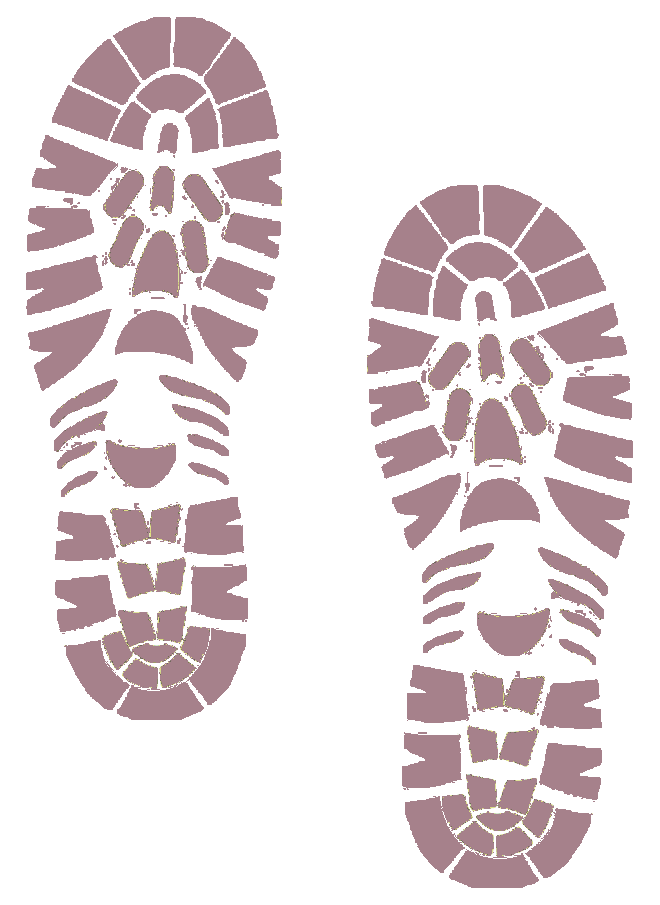
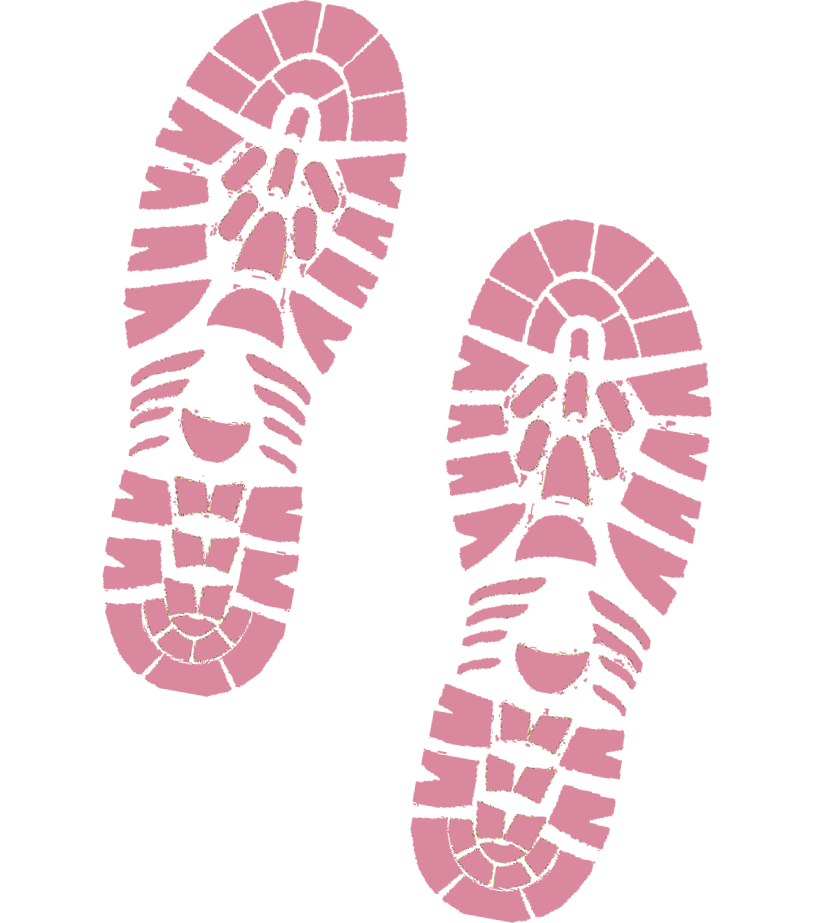
added in the footprints for whatToWear and added max-width to sections

diff --git a/script.js b/script.js
@@ -237,12 +237,11 @@ weatherApp.displayWeather = function(weatherData) {
 /////////// DISPLAY ICON FUNCTION ///////////
 //create a function that holds if/else statements - determines which icon will be displayed based on current weather
 weatherApp.displayIcon = function(icon){
-     // console.log('i works!');
      const iconContainer = document.querySelector('.iconContainer');
      iconContainer.innerHTML = "";
      
      const masterpiece = document.createElement('img');
-     
+     //if/else statements to know which image to append
      if (icon === "cloudy"){
           masterpiece.src = weatherIcons[0]
           iconContainer.appendChild(masterpiece);
@@ -275,25 +274,29 @@ weatherApp.displayIcon = function(icon){
 //////// SELECT CLOTHING LIST FUNCTION ///////////
 //Create a method to store the forEach method inside- for each of the items inside the clothing array, create a new <li> with the clothing item inside
 weatherApp.selectClothingList = function(outfitParameter) {
+     //add styling to whatToWear section and clear previous list items
      const whatToWear = document.querySelector('.whatToWear');
      whatToWear.classList.add('sectionsBackground')
      const ulClothingElement = document.querySelector('.clothingItems');
      ulClothingElement.innerHTML = "";
 
-     const runningOutfits = document.createElement('h3')
+     //create h3 title and img to append to clothingFlexContainer div
+     const clothingFlexContainer = document.querySelector('.clothingFlexContainer');
+     clothingFlexContainer.innerHTML = "";
 
+     const footprints = document.createElement('img');
+     footprints.src="./assets/shoesPink.png";
+     const runningOutfits = document.createElement('h2')
      runningOutfits.textContent = "What to wear";
-     ulClothingElement.append(runningOutfits)
+     clothingFlexContainer.append(footprints);
+     clothingFlexContainer.append(runningOutfits);
 
-     const columnDiv = document.createElement('div');
-     columnDiv.classList.add('column');
-
-
+     ulClothingElement.classList.add('column');
+     //.forEach loop
      outfitParameter.forEach(function(item) {
           const listedItem = document.createElement('li');
           listedItem.textContent = item;
-          columnDiv.append(listedItem);
-          ulClothingElement.append(columnDiv);
+          ulClothingElement.append(listedItem);
      }) 
 } //end of selectClothingList function
 

diff --git a/styles/sass/sass/partials/_sections.scss b/styles/sass/sass/partials/_sections.scss
@@ -40,7 +40,18 @@ form {
 /////// WHAT TO WEAR ///////////
 .whatToWear {
      margin-bottom: 30px;
-
+     max-width: 450px;
+     .clothingFlexContainer {
+          display:flex;
+          flex-direction:row;
+          align-items: center;
+          img {
+               width: 35%;
+               max-width:170px; 
+               padding-top: 15px;
+               margin-right: 25px;
+          }
+     }
      ul {
      padding: 15px;
      margin: 0 auto;
@@ -80,13 +91,16 @@ form {
      align-items: center;
      h3 {
           margin: 8px 0 0 0;
+          padding: 0 10px;
           color: $accent;
+          text-align:center;
      }
 }
 
 // class to add to the location section 
 .locationBackground {
      background-color: $bodyTextColour;
+     max-width:450px;
 }
 
 .errorHandling {
@@ -104,15 +118,17 @@ form {
      font-size: 1rem;
 }
 
-.flexContainer {
-     display:flex;
-     justify-content: space-between;
-     // border: 2px solid red;
-     padding-top: 15px;
+.currentConditions {
+     max-width: 450px;
+     .flexContainer {
+          display:flex;
+          justify-content: space-between;
+          padding-top: 15px;
+     }
 }
 
+
 .iconContainer {
-     // border: 2px solid yellow;
      width: 60%;
      img {
           width: 100%;
@@ -121,7 +137,6 @@ form {
 }
 
 .forecastHighlights {
-     // border:2px solid yellow;
      width: 40%;
      display:flex;
      flex-direction: column;
@@ -129,11 +144,11 @@ form {
      padding-left: 15px;
      h2{
           margin: 10px 0;
-     }
-     span {
-          display:block;
-          margin: 5px 0;
-     }
+          span {
+               display:block;
+               margin: 5px 0;
+          }
+     } 
      h4 {
           margin: 0;
      }

diff --git a/styles/style.css b/styles/style.css
@@ -236,13 +236,13 @@ html {
 }
 
 h1 {
-  font-size: 3.5rem;
+  font-size: 3.7rem;
   color: #4C4C4C;
   font-family: "Bubblegum Sans";
 }
 
 h2 {
-  font-size: 1.6rem;
+  font-size: 2rem;
   font-family: "Red Hat Display";
 }
 
@@ -435,6 +435,25 @@ form button {
 
 .whatToWear {
   margin-bottom: 30px;
+  max-width: 450px;
+}
+.whatToWear .clothingFlexContainer {
+  display: -webkit-box;
+  display: -ms-flexbox;
+  display: flex;
+  -webkit-box-orient: horizontal;
+  -webkit-box-direction: normal;
+      -ms-flex-direction: row;
+          flex-direction: row;
+  -webkit-box-align: center;
+      -ms-flex-align: center;
+          align-items: center;
+}
+.whatToWear .clothingFlexContainer img {
+  width: 35%;
+  max-width: 170px;
+  padding-top: 15px;
+  margin-right: 25px;
 }
 .whatToWear ul {
   padding: 15px;
@@ -475,11 +494,14 @@ form button {
 }
 .location h3 {
   margin: 8px 0 0 0;
+  padding: 0 10px;
   color: #FEEA7E;
+  text-align: center;
 }
 
 .locationBackground {
   background-color: #4C4C4C;
+  max-width: 450px;
 }
 
 .errorHandling {
@@ -498,7 +520,10 @@ form button {
   font-size: 1rem;
 }
 
-.flexContainer {
+.currentConditions {
+  max-width: 450px;
+}
+.currentConditions .flexContainer {
   display: -webkit-box;
   display: -ms-flexbox;
   display: flex;
@@ -533,7 +558,7 @@ form button {
 .forecastHighlights h2 {
   margin: 10px 0;
 }
-.forecastHighlights span {
+.forecastHighlights h2 span {
   display: block;
   margin: 5px 0;
 }

diff --git a/index.html b/index.html
@@ -22,7 +22,7 @@
     <header>
         <div class="greycurve">
         <h1>Weather to Run <span>( or Not )</span></h1>
-        <img src="./assets/headerFootprints.png" alt="" class ="full-width">
+        <img src="./assets/headerFootprints.png" alt="">
         </div>
     </header>
 
@@ -68,6 +68,9 @@
                 </div> <!-- end of currentConditions -->
                 
                 <div class="whatToWear wrapper">
+                    <div class="clothingFlexContainer wrapper">
+                        <!-- title and footprints here -->
+                    </div>
                     <ul class="clothingItems wrapper">
                         <!-- clothing array goes here -->
                     </ul>

diff --git a/styles/sass/sass/partials/_typography.scss b/styles/sass/sass/partials/_typography.scss
@@ -4,13 +4,13 @@
 //Libreville weight 400 (regular)
 
 h1 {
-     font-size: 3.5rem;
+     font-size: 3.7rem;
      color: $bodyTextColour;
      font-family: $h1Font;
 }
 
 h2 {
-     font-size: 1.6rem;
+     font-size: 2rem;
      font-family: $sansSerifFont
 }
 

diff --git a/styles/sass/sass/partials/_baseStyles.scss b/styles/sass/sass/partials/_baseStyles.scss
@@ -31,7 +31,6 @@ button {
 
 img {
     display: block;
-    // max-width: 100%;
 }
 
 ul {
